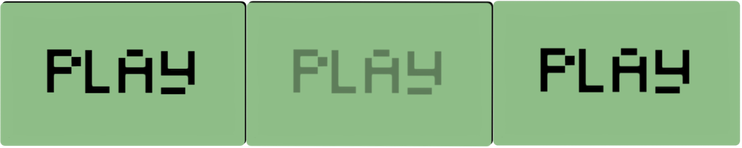
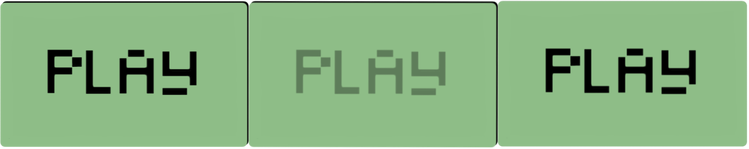
Añadida pantalla previa + arreglos de bugs

diff --git a/src/states/preload.js b/src/states/preload.js
@@ -8,10 +8,19 @@ NoName.preloadState.prototype = {
 
         //Load Assets
         game.load.image('background', 'assets/menu/rsz_backgroundtileable.png');
-        game.load.spritesheet('settings', 'assets/botones 2.0/rsz_bconf.png', 142, 98);
-        game.load.spritesheet('play', 'assets/botones 2.0/rsz_bplay.png', 247, 148);
-        game.load.spritesheet('shop', 'assets/botones 2.0/rsz_bshop.png', 142, 98);
+        game.load.spritesheet('settings', 'assets/botones 2.0/rsz_bconf.png', 143, 98);
+        game.load.spritesheet('play', 'assets/botones 2.0/rsz_bplay.png', 249, 149);
+        game.load.spritesheet('shop', 'assets/botones 2.0/rsz_bshop.png', 143, 99);
         game.load.image('title', 'assets/menu/rsz_Title.png');
+
+        game.load.spritesheet('playpregame', 'assets/botones 2.0/rsz_bplaypregame.png', 160, 96);
+        game.load.image('bomb', 'assets/botones 2.0/rsz_bbomba.png');
+        game.load.image('flechad', 'assets/botones 2.0/rsz_bflechadcha.png');
+        game.load.image('flechai', 'assets/botones 2.0/rsz_bflechaizq.png');
+        game.load.image('lightsout', 'assets/botones 2.0/rsz_bfundidonegro.png');
+        game.load.image('morderbloq', 'assets/botones 2.0/rsz_bmorderbloq.png');
+        game.load.image('interfacecartas', 'assets/botones 2.0/rsz_bniinterfacecartas.png');
+        game.load.image('salto', 'assets/botones 2.0/rsz_bsalto.png');
 
         game.load.image('example_char', 'assets/personajes 2.0/P1aA.png');
         game.load.image('example_enem', 'assets/personajes 2.0/P1nA.png');

diff --git a/src/states/pregame.js b/src/states/pregame.js
@@ -1,0 +1,54 @@
+NoName.pregameState = function(game){
+
+}
+NoName.pregameState.prototype = {
+
+    preload: function(){
+        
+    },
+
+    create: function(){
+        game.add.tileSprite(0, 0, 800, 600, 'background');
+        game.add.tileSprite(13, 20, 774, 460, 'interfacecartas');
+        game.add.button(710, 165, 'flechad', flechaD, this, 1, 0, 2);
+        game.add.button(45, 165, 'flechai', flechaI, this, 1, 0, 2);
+        game.add.button(100, 159, 'bomb', bomb, this, 1, 0, 2);
+        game.add.button(256, 160, 'lightsout', lightsOut, this, 1, 0, 2);
+        game.add.button(412, 159, 'morderbloq', morderbloq, this, 1, 0, 2);
+        game.add.button(568, 159, 'salto', salto, this, 1, 0, 2);
+        game.add.button(320, 483, 'playpregame', playPregame, this, 1, 0, 2);
+    },
+
+    update: function(){
+        setTimeout(playPregame, 30000);
+    }
+}
+
+function playPregame() {
+    game.state.start('levelState');
+}
+
+function flechaD() {
+
+}
+
+function flechaI() {
+
+}
+
+function bomb() {
+
+}
+
+function lightsOut() {
+
+}
+
+function morderbloq() {
+
+}
+
+function salto() {
+
+}
+

diff --git a/src/states/level.js b/src/states/level.js
@@ -3,7 +3,6 @@ NoName.levelState = function(game) {
 }
 
 //Declaración de variables
-var bg;
 
 var player;
 var xgame;
@@ -19,13 +18,12 @@ NoName.levelState.prototype = {
     
     preload: function() {
         
-        
     },
 
     create: function() {
 
-        game.add.tileSprite(0, 0, 8000000, 600, 'background');
-        game.world.setBounds(0, 0, 8000000, 600);
+        game.add.tileSprite(0, 0, 16000, 600, 'background');
+        game.world.setBounds(0, 0, 16000, 600);
 
         //Variables
         size = 0.05;
@@ -35,9 +33,6 @@ NoName.levelState.prototype = {
         sizeR = 0.05;
         ygameR = 320;
         xgameR = 100;
-
-
-        //bg = game.add.sprite(0, 0, 'background');
 
         //PLAYER
         this.wKey = game.input.keyboard.addKey(Phaser.Keyboard.W);
@@ -127,4 +122,3 @@ NoName.levelState.prototype = {
         }
     }
 }
-

diff --git a/src/states/menu.js b/src/states/menu.js
@@ -5,11 +5,7 @@ NoName.menuState = function(game) {
 NoName.menuState.prototype = {
 
     preload: function() {
-        //Start Menu
-        var text = "Pulsa E";
-        var style = { font: "45px Arial", fill: "#0040FF", align: "center" };
-        var t = game.add.text(game.world.centerX-200, 0, text, style);
-        this.eKey = game.input.keyboard.addKey(Phaser.Keyboard.E);
+        
     },
 
     create: function() {
@@ -26,7 +22,7 @@ NoName.menuState.prototype = {
 }
 
 function playButton() {
-    game.state.start('levelState');
+    game.state.start('pregameState');
 }
 
 function shopButton() {

diff --git a/src/index.js b/src/index.js
@@ -3,6 +3,7 @@ game = new Phaser.Game(800, 600, Phaser.AUTO, 'gameDiv')
 game.state.add('bootState', NoName.bootState)
 game.state.add('preloadState', NoName.preloadState)
 game.state.add('menuState', NoName.menuState)
+game.state.add('pregameState', NoName.pregameState)
 game.state.add('levelState', NoName.levelState)
 game.state.add('endState', NoName.endState)
   

diff --git a/index.html b/index.html
@@ -12,6 +12,7 @@
     <script src="src/states/boot.js"></script>
     <script src="src/states/preload.js"></script>
     <script src="src/states/menu.js"></script>
+    <script src="src/states/pregame.js"></script>
     <script src="src/states/level.js"></script>
     <script src="src/states/end.js"></script>
     <script src="src/index.js"></script>
